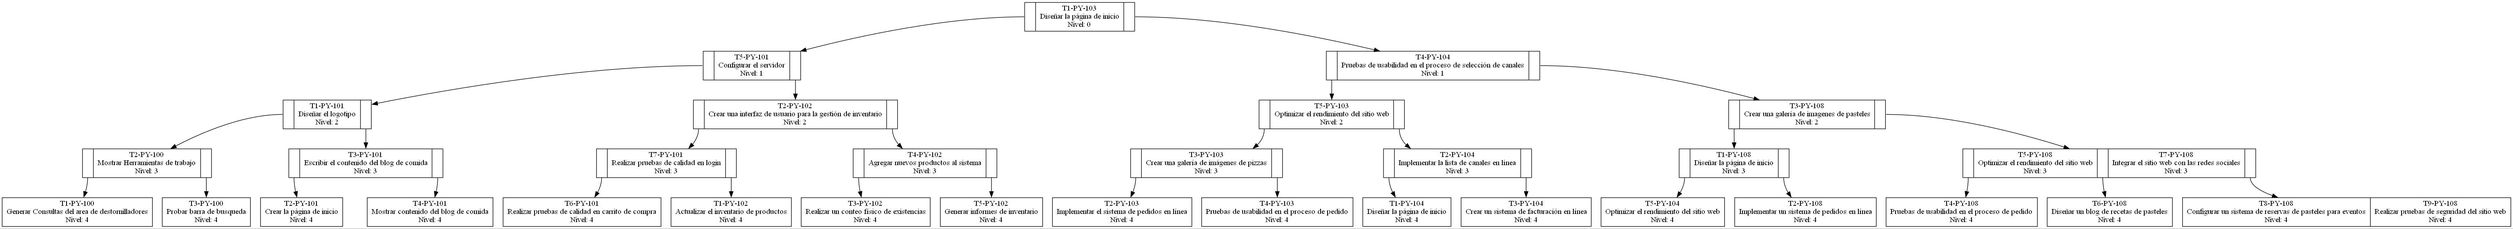
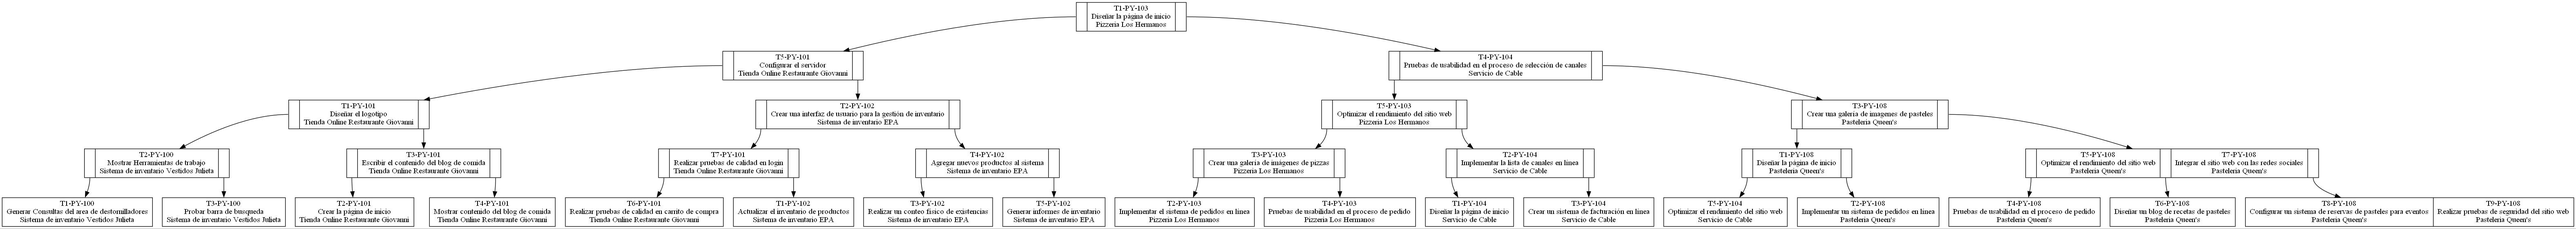
reportes
corregido

diff --git a/EDD_PY1_Fase2/Fase02/Estructuras/arbolB.py b/EDD_PY1_Fase2/Fase02/Estructuras/arbolB.py
@@ -111,7 +111,7 @@ class ArbolB():
         a = open(dot_file_path, "w", encoding="utf-8")
         if self.raiz is not None:
             cadena += "digraph arbol { \nnode[shape=record]"
-            cadena += self.Grafo(self.raiz.primero, nivel=0)  # Pasa el nivel inicial
+            cadena += self.Grafo(self.raiz.primero) 
             cadena += self.conexionRamas(self.raiz.primero)
             cadena += "}"
         a.write(cadena)
@@ -120,21 +120,21 @@ class ArbolB():
         # Genera la imagen desde el archivo DOT
         os.system(f"dot -Tjpg {dot_file_path} -o {image_file_path}")
 
-    def Grafo(self, rama: NodoB, nivel):  # Recibe el nivel como argumento
+    def Grafo(self, rama: NodoB): 
         dot = ''
         if rama is not None:
-            dot += self.GrafoRamas(rama, nivel)
+            dot += self.GrafoRamas(rama)
             aux: NodoB = rama
             while aux is not None:
                 if aux.izquierda is not None:
-                    dot += self.Grafo(aux.izquierda.primero, nivel + 1)  # Incrementa el nivel
+                    dot += self.Grafo(aux.izquierda.primero) 
                 if aux.siguiente is None:
                     if aux.derecha is not None:
-                        dot += self.Grafo(aux.derecha.primero, nivel + 1)  # Incrementa el nivel
+                        dot += self.Grafo(aux.derecha.primero) 
                 aux = aux.siguiente
         return dot
 
-    def GrafoRamas(self, rama: NodoB, nivel):  # Recibe el nivel como argumento
+    def GrafoRamas(self, rama: NodoB): 
         dot = ''
         if rama is not None:
             aux: NodoB = rama
@@ -145,10 +145,10 @@ class ArbolB():
                     dot = dot + "<C" + str(r) + ">|"
                     r += 1
                 if aux.siguiente is not None:
-                    dot = dot + str(aux.id.idTarea) + "\\n" + str(aux.id.nombreTarea) + "\\n" + "Nivel: " + str(nivel)  + "|"  # Cambio de valores
+                    dot = dot + str(aux.id.idTarea) + "\\n" + str(aux.id.nombreTarea) + "\\n" + str(aux.id.nombreProyecto) + "|"  # Cambio de valores
                 else:
                     dot = dot + str(aux.id.idTarea) + "\\n" + str(
-                        aux.id.nombreTarea) + "\\n" + "Nivel: " + str(nivel)   # cambio de Valores
+                        aux.id.nombreTarea) + "\\n" + str(aux.id.nombreProyecto)  # cambio de Valores
                     if aux.derecha is not None:
                         dot = dot + "|<C" + str(r) + ">"
                 aux = aux.siguiente

diff --git a/EDD_PY1_Fase2/Fase02/interfaz.py b/EDD_PY1_Fase2/Fase02/interfaz.py
@@ -238,7 +238,7 @@ class App():
                         empleado_tarea = tarea.get("empleado", "")
                         id_tarea = "T" + str(contador) + "-" + id_proyecto
 
-                        tarea_ = Tarea(id_tarea, nombre_tarea, empleado_tarea)
+                        tarea_ = Tarea(id_tarea, nombre_tarea, empleado_tarea,nombre_proyecto)
                         tareasReporte.insertar(tarea_)  # Agregar tarea al árbol B
                         # También puedes imprimir la tarea para verificar
                         # print(tarea_)

diff --git a/EDD_PY1_Fase2/Fase02/tarea.py b/EDD_PY1_Fase2/Fase02/tarea.py
@@ -1,8 +1,9 @@
 class Tarea:
-    def __init__(self,idTarea,nombreTarea,codigoEmpleado):
+    def __init__(self,idTarea,nombreTarea,codigoEmpleado,nombreProyecto):
         self.idTarea = idTarea
         self.nombreTarea = nombreTarea
         self.codigoEmpleado = codigoEmpleado #fdev-001d
+        self.nombreProyecto = nombreProyecto
 
     #def __str__(self):
     #    return f"Tarea ID: {self.idTarea}\nNombre: {self.nombreTarea}\nEmpleado: {self.codigoEmpleado}"

diff --git a/EDD_PY1_Fase2/Fase02/Estructuras/arbolAVL.py b/EDD_PY1_Fase2/Fase02/Estructuras/arbolAVL.py
@@ -105,6 +105,7 @@ class Arbol_AVL():
         a = open(dot_file_path, "w")
         if self.raiz is not None:
             cadena += "digraph arbol {"
+            cadena += 'node [shape=box];'
             cadena += self.retornarValoresArbol(self.raiz, 0)
             cadena += "}"
         a.write(cadena)
